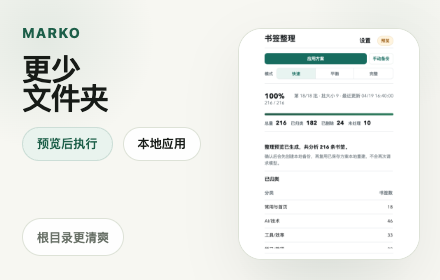
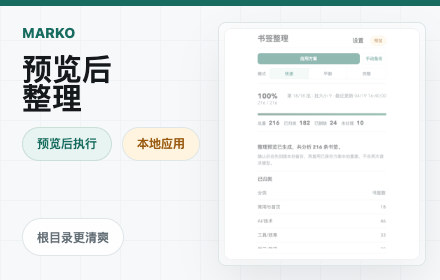
Refresh web store promo assets

diff --git a/tests/run-tests.js b/tests/run-tests.js
@@ -1737,6 +1737,11 @@ function testReleaseMaterialsCurrent() {
   assert.match(storeAssetRenderer, /currentBatch: 18/);
   assert.match(storeAssetRenderer, /totalBatches: 18/);
   assert.match(storeAssetRenderer, /#settingsSpeedModeFastButton/);
+  assert.match(storeAssetRenderer, /linear-gradient\(\$\{palette\.lineSoft\} 1px, transparent 1px\)/);
+  assert.match(storeAssetRenderer, /letter-spacing: 0/);
+  assert.match(storeAssetRenderer, /border-radius: 8px/);
+  assert.doesNotMatch(storeAssetRenderer, /radial-gradient/);
+  assert.doesNotMatch(storeAssetRenderer, /letter-spacing: -/);
   assert.doesNotMatch(storeAssetRenderer, /waitForSelector\("#linkCheckMode"\)/);
 
   const layoutAuditor = fs.readFileSync(

diff --git a/CHANGELOG.md b/CHANGELOG.md
@@ -16,6 +16,7 @@
 - Settings organization rules now use the same Fast/Balanced/Complete segmented control as the popup instead of a compact dropdown
 - Settings automation now uses a direct Silent organize switch instead of a true/false dropdown
 - Settings automation keeps the interval field disabled until Silent organize is turned on, so inactive timing settings no longer distract or block saves
+- Chrome Web Store promo images now use a cleaner grid-backed product layout without decorative glow backgrounds or negative title spacing
 - Settings connection fields now expose the selected mode requirement hint to assistive technologies while preserving inline validation messages
 - Popup setup copy and shortcut logic now avoid implying Fast mode needs API credentials when local preview can run without a model call
 - Popup setup errors now show how many uncached bookmarks require model classification before asking users to finish AI access setup
